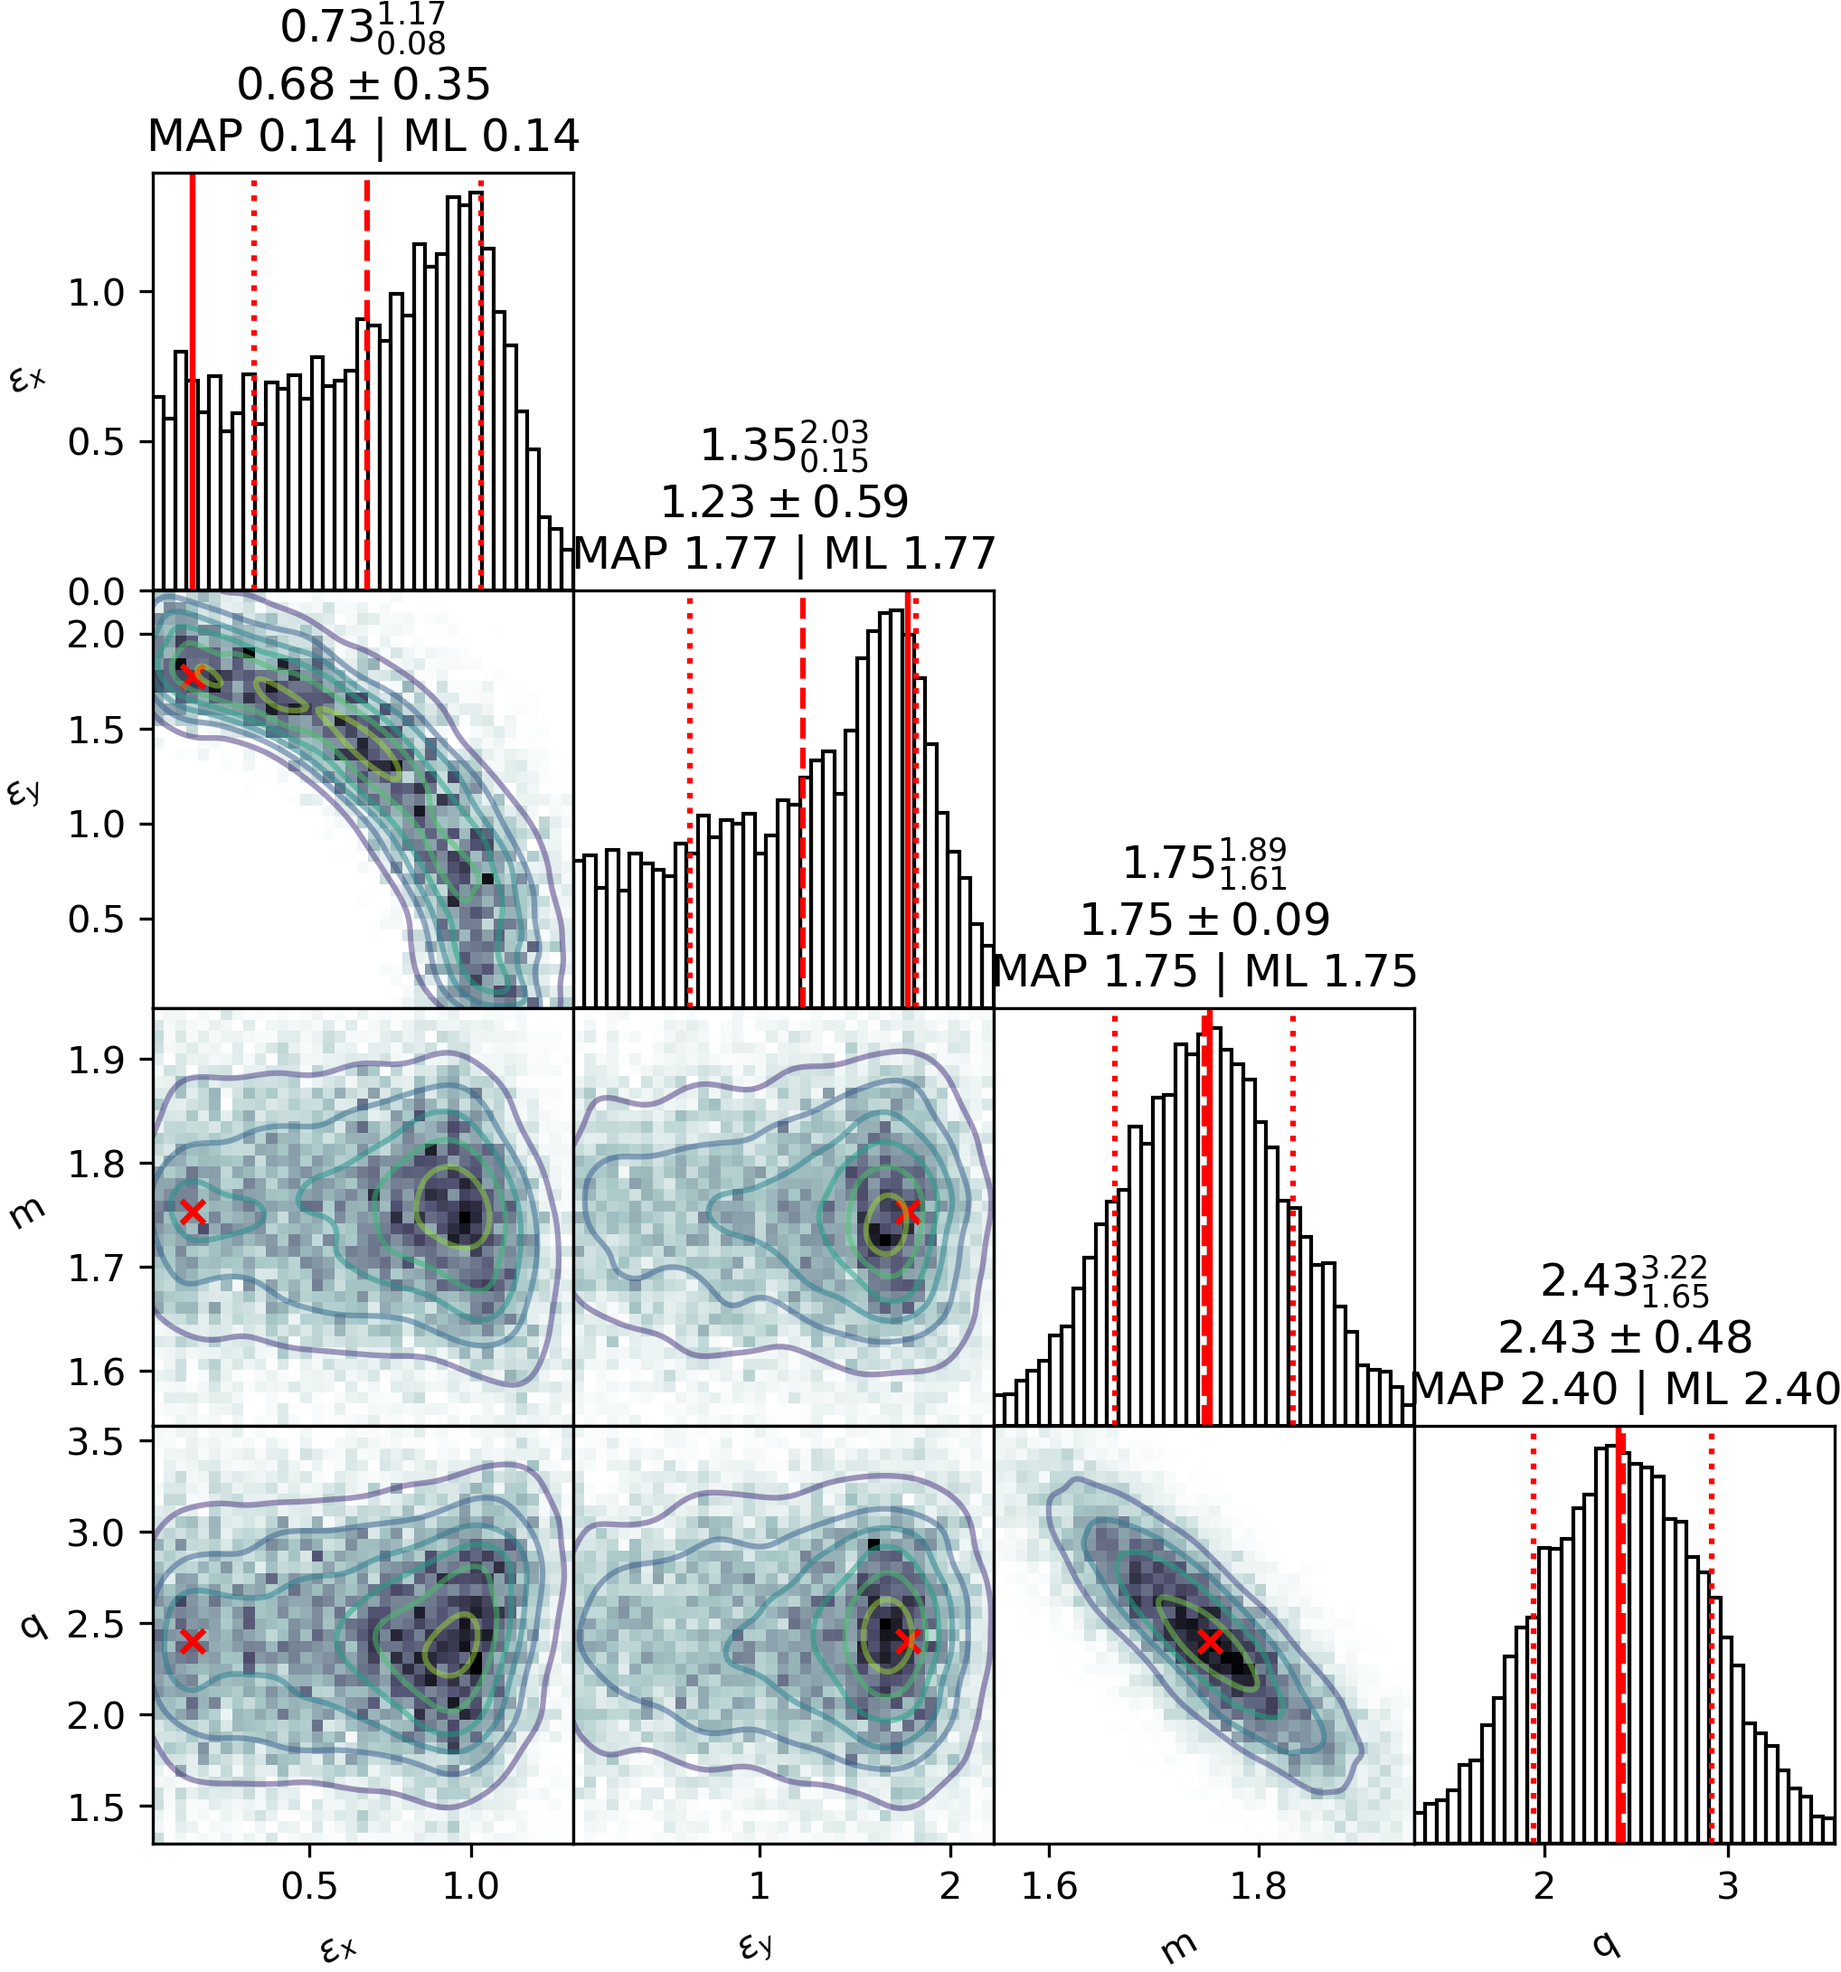
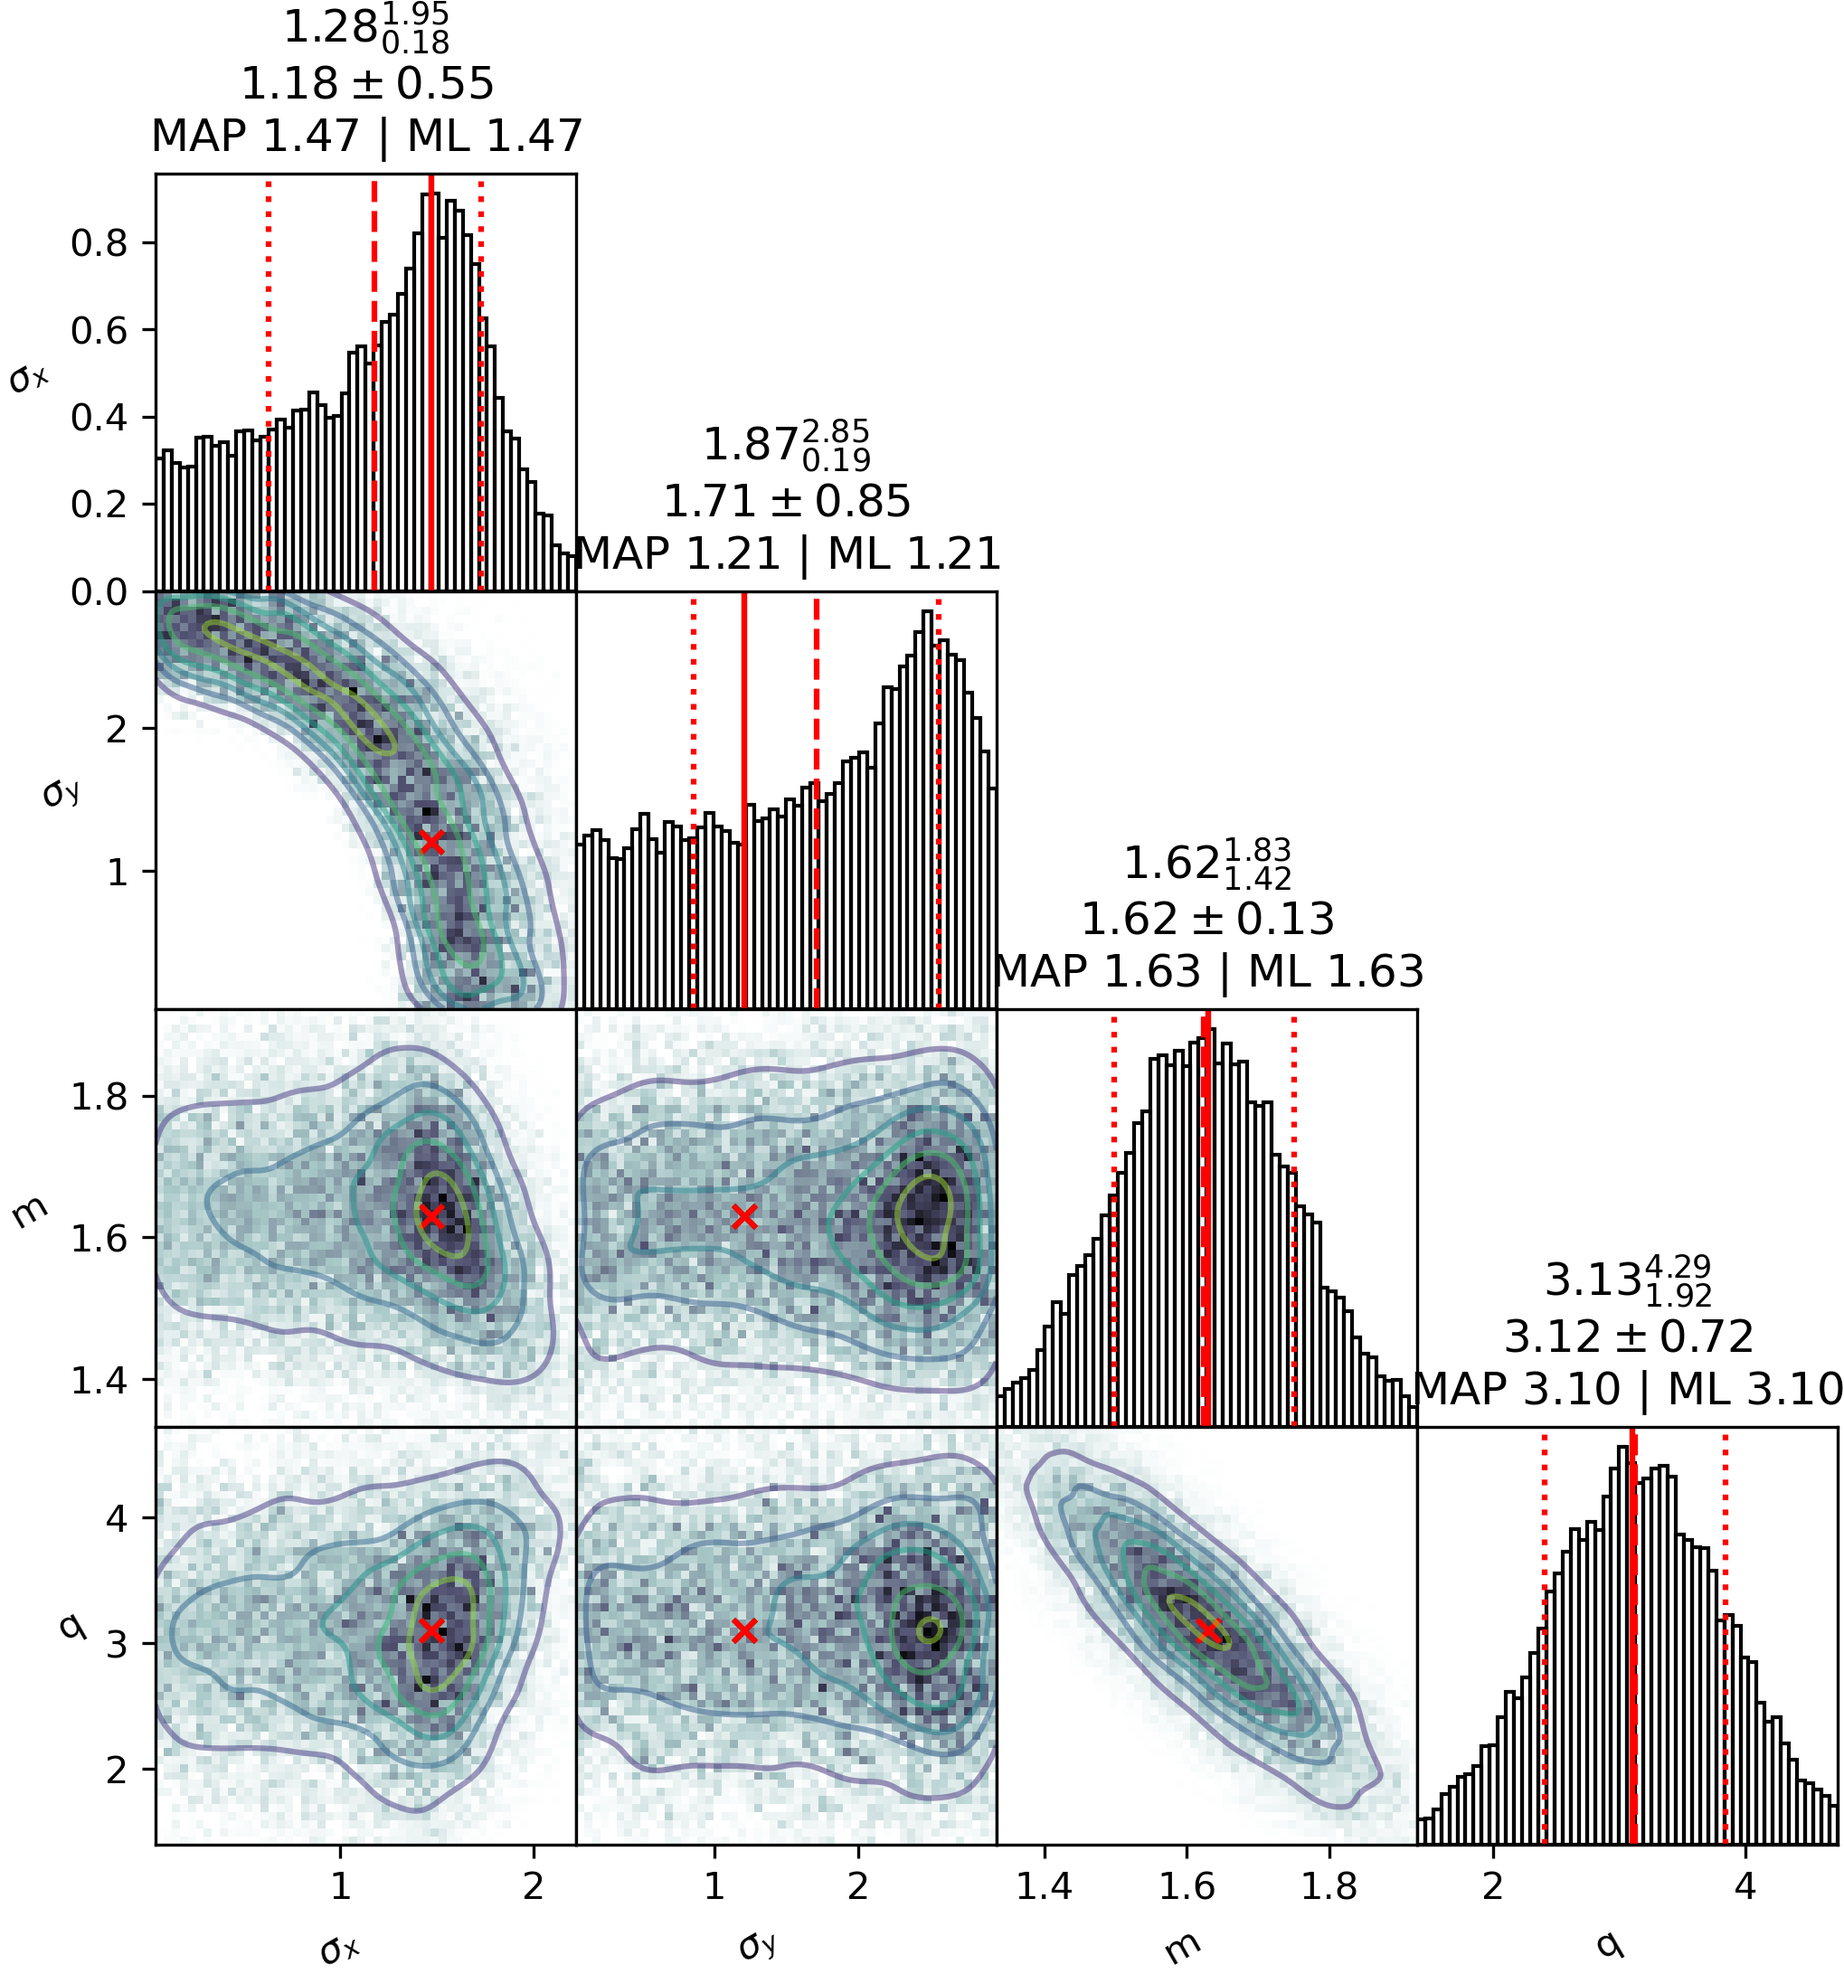
Increased number of live points for linear toy model with JAXNS

diff --git a/jaxns_tests/linear_model_x_uncert.py b/jaxns_tests/linear_model_x_uncert.py
@@ -4,6 +4,7 @@ from matplotlib import scale
 import matplotlib.pyplot as plt
 import numpy as np
 import jax
+jax.config.update("jax_enable_x64", True)
 jnp=jax.numpy
 jsp=jax.scipy
 random = jax.random
@@ -32,8 +33,9 @@ if __name__ == "__main__":
     key = random.PRNGKey(0)
     true_params = jnp.array([2.0, 1.0])  # m, q
     x_range = jnp.array([0,10.0])
-    noise_sigma = 2.0
-    x_obs, y_obs = generate_data(key, true_params, x_range, num_points=50, noise_std_x=noise_sigma, noise_std_y=noise_sigma)
+    noise_sigma_x = 2.0
+    noise_sigma_y = 1.0
+    x_obs, y_obs = generate_data(key, true_params, x_range, num_points=50, noise_std_x=noise_sigma_x, noise_std_y=noise_sigma_y)
     
     plt.figure('linear_generated')
     plt.title('Generated Data for Linear Model')
@@ -42,7 +44,8 @@ if __name__ == "__main__":
     plt.xlabel('x')
     plt.ylabel('y')
     plt.legend(loc='best')
-    plt.savefig('linear_generated.png', dpi=600)
+    plt.savefig('linear_generated_x_uncert.png', dpi=600)
+    plt.close()
     #plt.show()
 
     def log_likelihood(m, q, error_std):
@@ -52,16 +55,16 @@ if __name__ == "__main__":
         return jnp.sum(tfpd.Normal(linear_model(x_obs, m, q), jnp.sqrt(epsilon_y**2 + (m * epsilon_x)**2)).log_prob(y_obs))
     
     def prior_model():
-        m = yield Prior(tfpd.Uniform(-100.0,100.0),name='m')
-        q = yield Prior(tfpd.Uniform(-100.0,1500.0),name='q')
-        epsilon_y = yield Prior(tfpd.Uniform(0,25.0),name=r'$\epsilon_y$')
-        epsilon_x = yield Prior(tfpd.Uniform(0,25.0),name=r'$\epsilon_x$')
+        m = yield Prior(tfpd.Uniform(-1.0,5.0),name='m')
+        q = yield Prior(tfpd.Uniform(-1.0,5.0),name='q')
+        epsilon_y = yield Prior(tfpd.Uniform(1.0e-14,3.0),name=r'$\sigma_y$')
+        epsilon_x = yield Prior(tfpd.Uniform(1.0e-14,3.0),name=r'$\sigma_x$')
         return m,q,epsilon_y, epsilon_x
     
     model = Model(prior_model=prior_model, log_likelihood=log_likelihood_with_x_uncert)
     model.sanity_check(random.PRNGKey(1), S=10)
 
-    ns = NestedSampler(model, s=1000, k=model.U_ndims, num_live_points=model.U_ndims*1000)
+    ns = NestedSampler(model, s=1000, k=model.U_ndims, num_live_points=model.U_ndims*2000)
     termination_reason, state = jax.jit(ns)(random.PRNGKey(2))
     results = ns.to_results(termination_reason, state=state)
     ns.summary(results)

diff --git a/jaxns_tests/linear_model.py b/jaxns_tests/linear_model.py
@@ -26,6 +26,9 @@ def generate_data(key, params_tuple, x_range, num_points, noise_std):
 def log_normal(x, mean, std):
     return tfpd.Normal(loc=mean, scale=std).log_prob(x)
 
+def main_body():
+    return 0
+
 if __name__ == "__main__":
     print(f"JAX is using: {jax.devices()}")
     key = random.PRNGKey(0)
